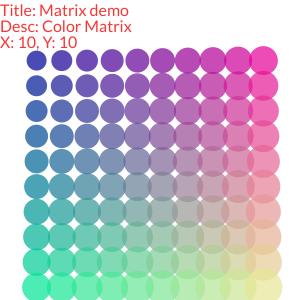
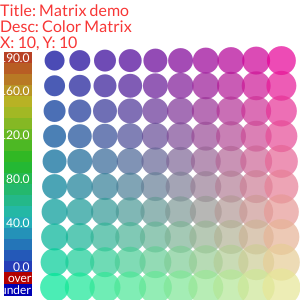
feat: Add Layout Left side

diff --git a/layout.go b/layout.go
@@ -10,8 +10,8 @@ import (
 type Layout struct {
 	Header  Box
 	Content ScaleBox // AutoResize
-	RSide   Box
-	LSide   Box
+	RSide   VerticalBox
+	LSide   VerticalBox
 	Footer  Box
 }
 
@@ -20,6 +20,12 @@ func (l Layout) Draw(dc *gg.Context) {
 	if l.Header != nil {
 		l.Header.Draw(dc, 0, 0)
 		_, cY = l.Header.Size()
+	}
+
+	if l.LSide != nil {
+		h := float64(dc.Height()) - cY
+		l.LSide.Draw(dc, l.LSide.Width(), h, 0, cY)
+		cX += l.LSide.Width()
 	}
 	if l.Content != nil {
 		w := float64(dc.Width()) - cX
@@ -36,6 +42,12 @@ type Scale struct {
 type Box interface {
 	Draw(dc *gg.Context, x, y float64)
 	Size() (w, h float64)
+}
+
+// VerticalBox is has fixed width and auto tune height
+type VerticalBox interface {
+	Draw(dc *gg.Context, w, h, x, y float64)
+	Width() (w float64)
 }
 
 type ScaleBox interface {
@@ -68,4 +80,26 @@ func (t TextBox) Draw(dc *gg.Context, x, y float64) {
 	for i, v := range t.Text {
 		dc.DrawString(v, x, y+fontHeight*float64(i+1))
 	}
+}
+
+type VerticalBoxMargine struct {
+	drawfn func(dc *gg.Context, w, h, x, y float64)
+	margin float64
+	width  float64
+}
+
+func NewVerticalBoxMargine(drawfn func(dc *gg.Context, w, h, x, y float64), margin, width float64) VerticalBoxMargine {
+	return VerticalBoxMargine{
+		drawfn: drawfn,
+		margin: margin,
+		width:  width,
+	}
+}
+
+func (v VerticalBoxMargine) Draw(dc *gg.Context, w, h, x, y float64) {
+	v.drawfn(dc, w-v.margin*2, h-v.margin*2, x+v.margin, y+v.margin)
+}
+
+func (v VerticalBoxMargine) Width() float64 {
+	return v.width
 }

diff --git a/examples/image_test.go b/examples/image_test.go
@@ -117,7 +117,6 @@ func TestGGWithBoxLayout(t *testing.T) {
 	l.Header = tbox
 
 	// Scale box
-
 	content := func(dc *gg.Context, w, h, x, y float64) {
 		var min, ofx float64
 		min = w
@@ -149,6 +148,39 @@ func TestGGWithBoxLayout(t *testing.T) {
 	}
 	l.Content = lgimage.ScaleBoxFunc(content)
 
+	// Left Side
+	fLat12, _ := gg.LoadFontFace("../assets/Lato-Regular.ttf", 12)
+	lsfn := func(dc *gg.Context, w, h, x, y float64) {
+		cmap := make(map[string]color.Color)
+		cmap["under"] = color.NRGBA{0, 0, 180, 255}
+		cmap["over"] = color.NRGBA{180, 0, 0, 255}
+
+		cfn := lgimage.ValueMapWithFunc{
+			Vmin: 0,
+			Vmax: 200,
+			ColorFunc: func(vi float64) color.Color {
+				c := colorful.Hsv(230-vi*230, 0.8, 0.72)
+				return c
+			},
+			ExceptionList: cmap,
+		}
+		cs := lgimage.ColorScale{
+			X:    x,
+			Y:    y,
+			W:    w,
+			H:    h,
+			Vmin: 0,
+			Vmax: 200,
+			Cfn:  cfn,
+			Font: fLat12,
+		}
+
+		cs.DrawVertical(dc)
+	}
+	lside := lgimage.NewVerticalBoxMargine(lsfn, 4.0, 36)
+	l.LSide = lside
+
+	// Draw
 	l.Draw(dc)
 
 	err := dc.SavePNG("layout_r1.png")
